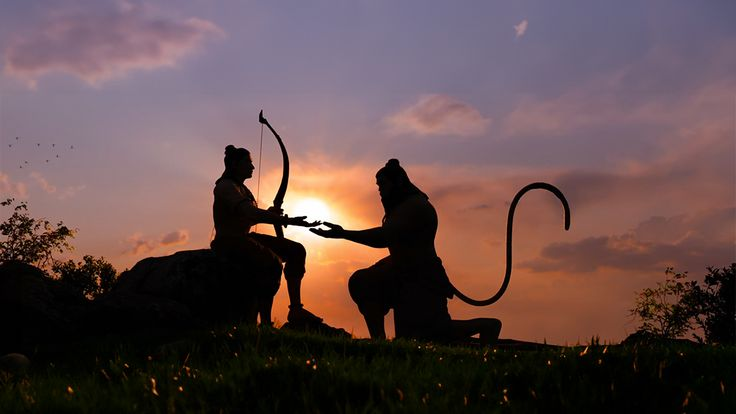
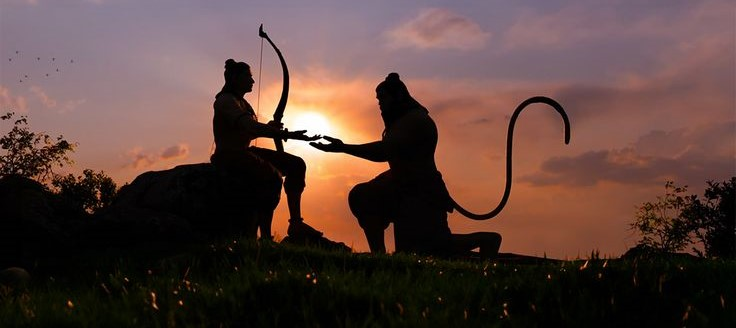
first commit

diff --git a/src/components/Header/Header.css b/src/components/Header/Header.css
@@ -3,6 +3,7 @@
   height: 34vw;
   background: url('/header-image.jpg') no-repeat ;
   position: relative;
+  background-size: cover;
 
 }
 .header-contents img{
@@ -11,8 +12,11 @@
 
 
 
-@media screen and (max-width:700px) {
+@media screen and (max-width:793px) {
   .header{
-    background: url('/header_image.png') ;
+    background: url('/Hanuman.jpg') ;
+    width: 100%;
+    background-repeat: no-repeat;
+    background-size: cover;
   }
 }
